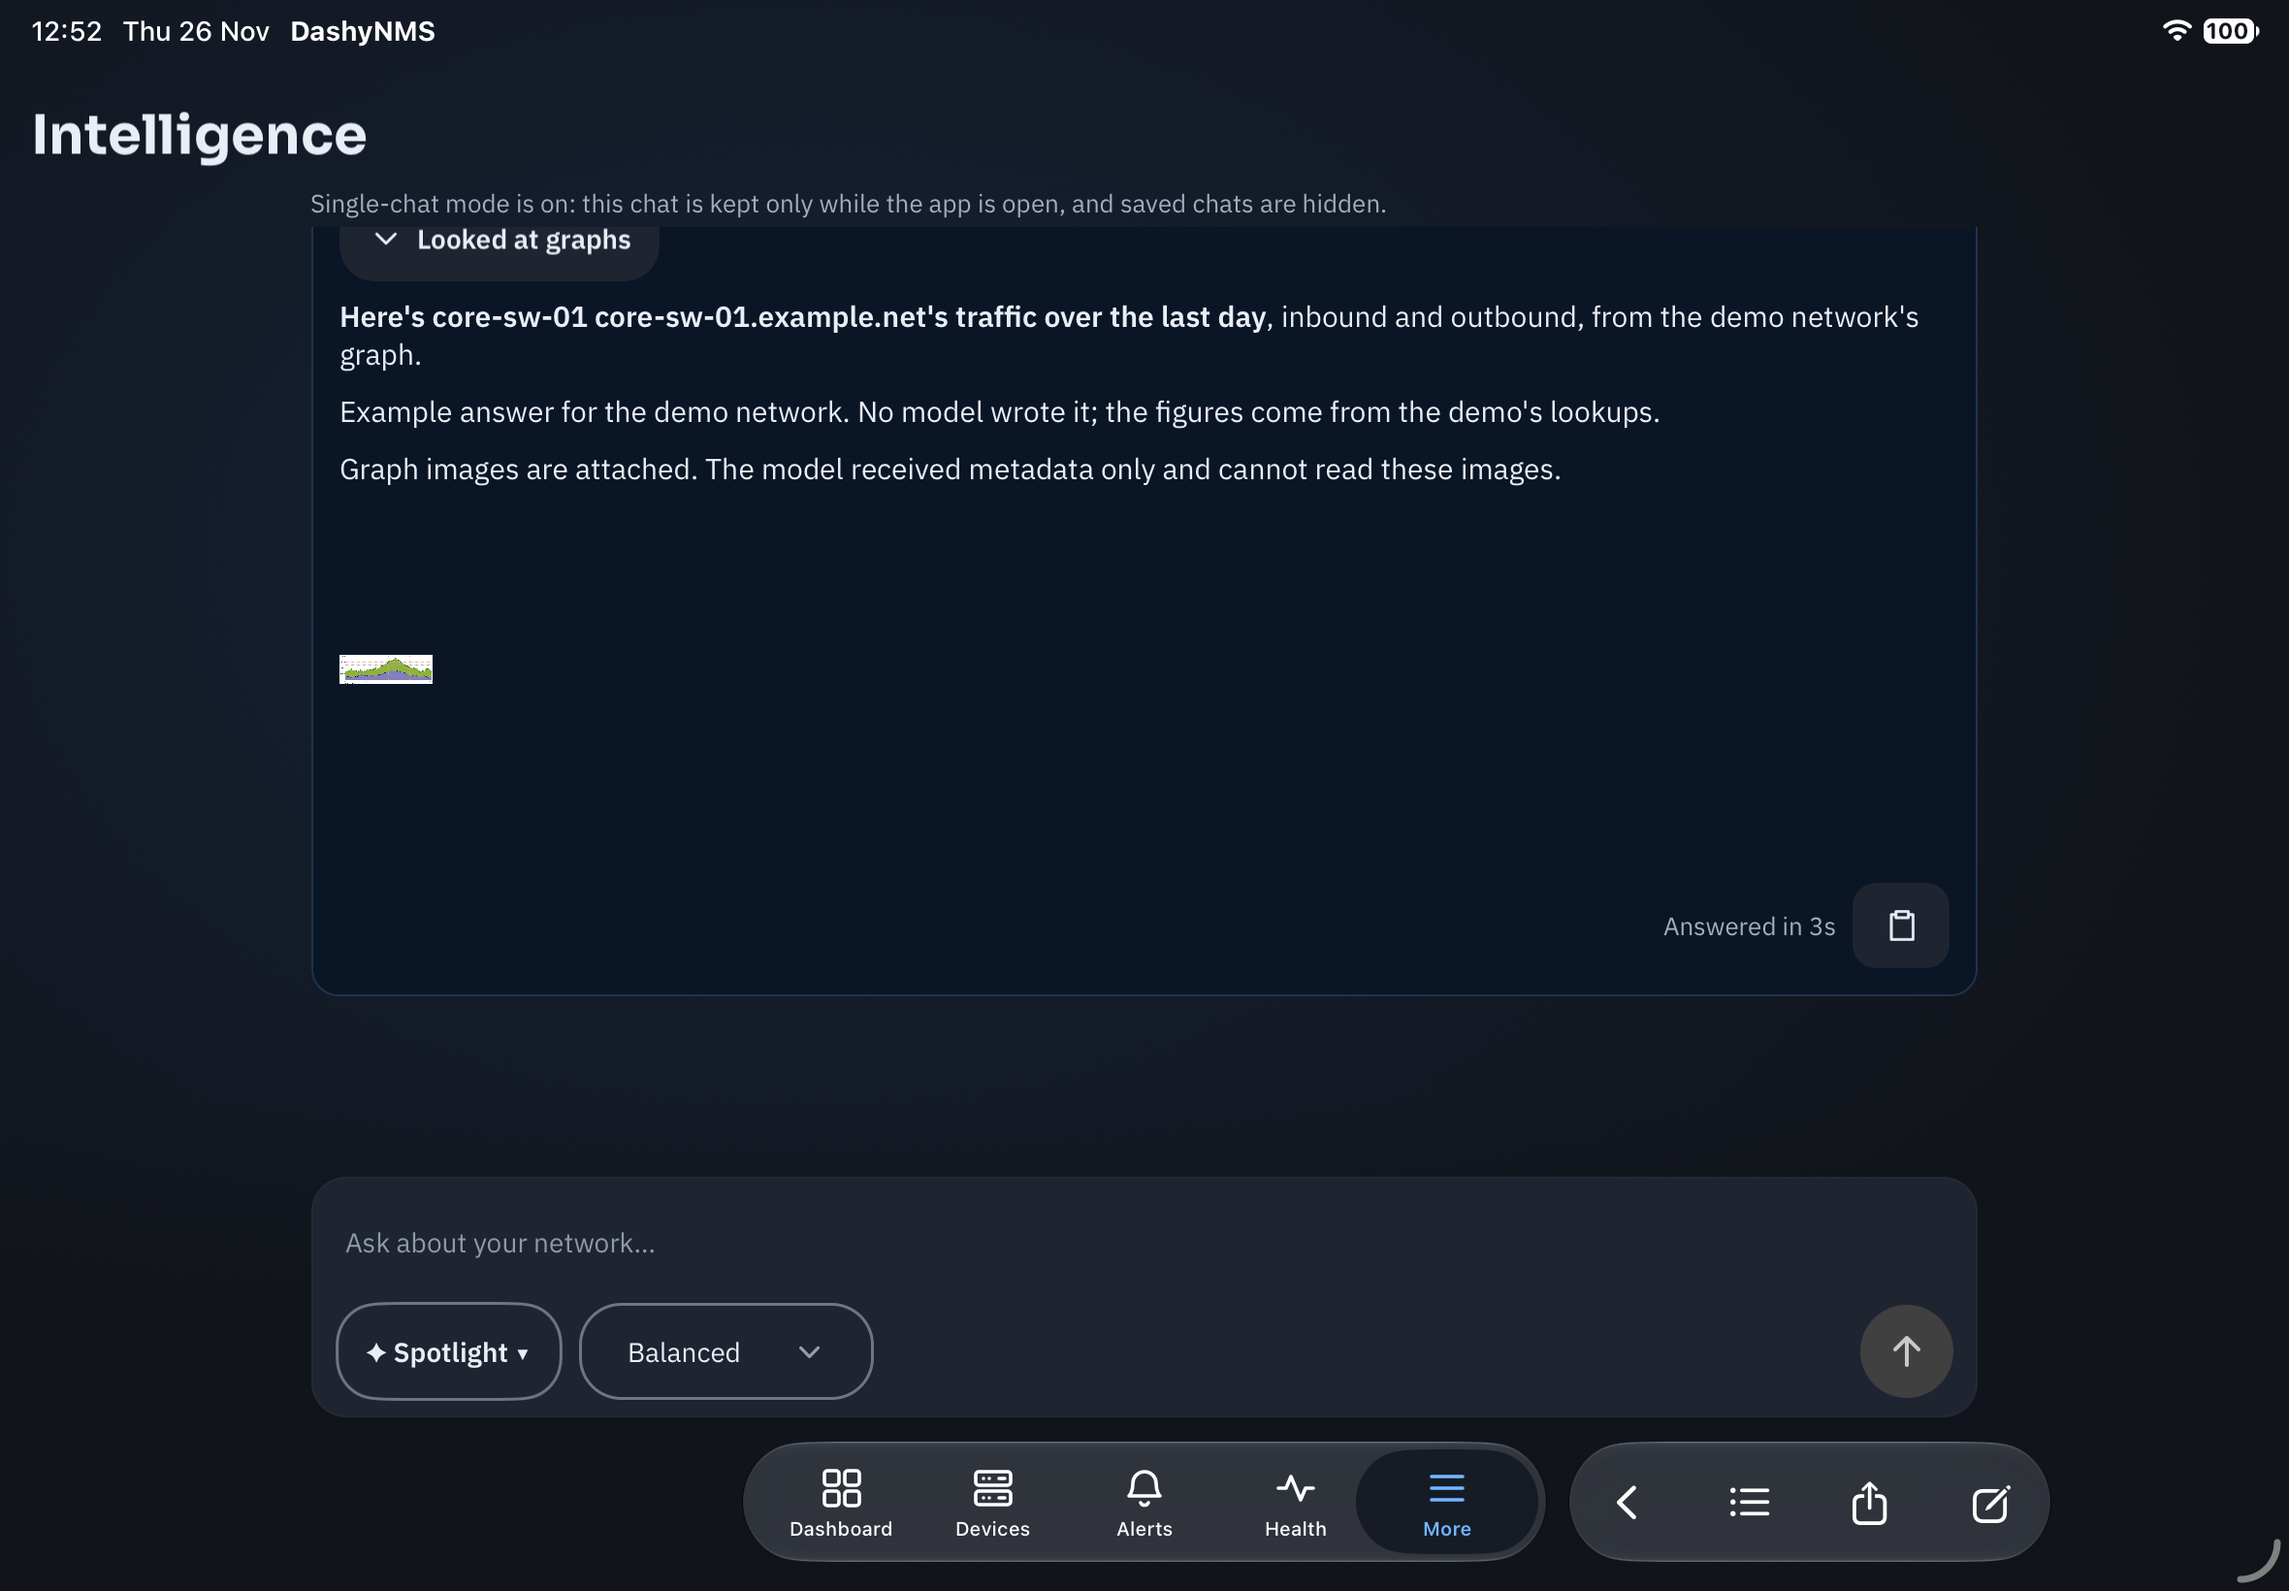
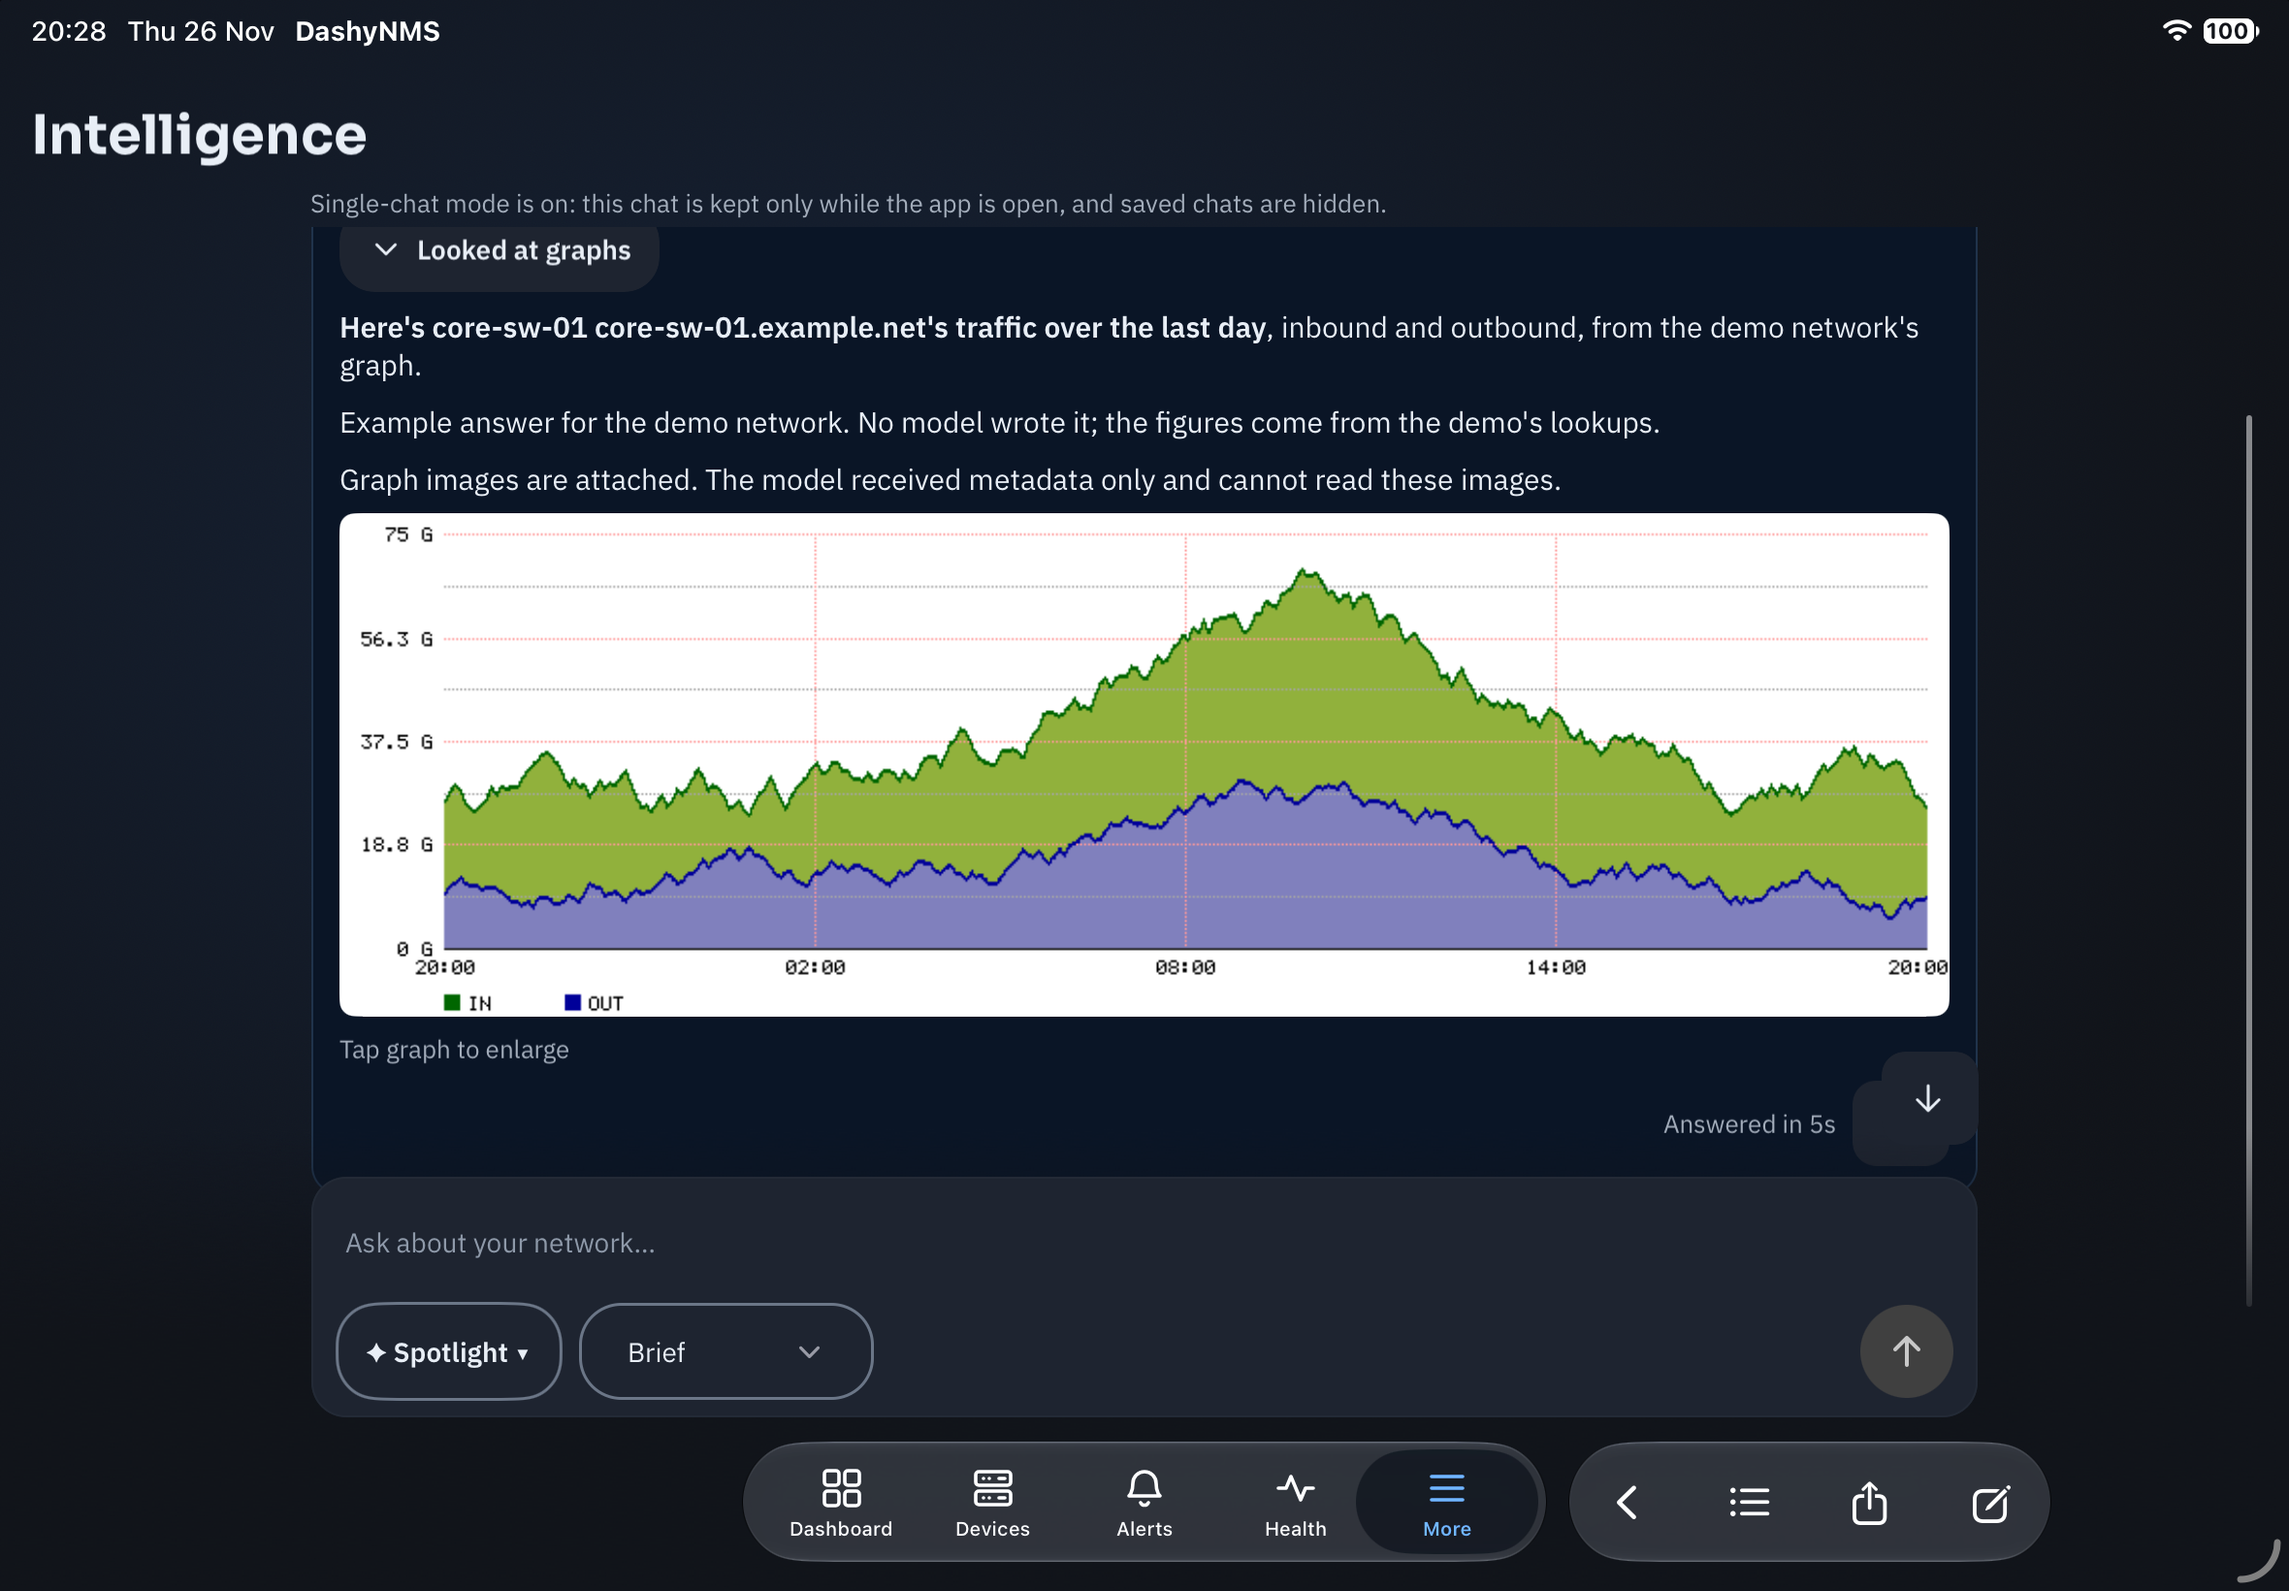
fix(intelligence): render attached graphs at full width (#721)
Closes #700

Intelligence graphs fill the answer card’s inner width and preserve the
source image’s aspect ratio as the window changes. Each graph still
opens the private preview when tapped.

## Simulator renders

<img alt="iPhone 18 Pro in dark mode with the full-width Demo Mode
traffic graph"
src="https://raw.githubusercontent.com/DashyNMS/mobile/7f766b627da7437e54f560aca1cb6927841c1ffa/docs/assets/screenshots/iphone-18-pro/30-intelligence-graph-answer-dark.png"
width="320">

<img alt="iPad A16 in landscape and dark mode with the full-width Demo
Mode traffic graph"
src="https://raw.githubusercontent.com/DashyNMS/mobile/7f766b627da7437e54f560aca1cb6927841c1ffa/docs/assets/screenshots/ipad-a16/26-ipad-landscape-intelligence-graph-dark.png"
width="760">

## Verification

- Ran the one-day core-sw-01 Demo Mode prompt on iPhone 18 Pro, iPhone
Duo folded and unfolded, and iPad (A16) in dark and light mode. The iPad
and Duo needed Brief detail because Balanced hit the prompt-length
limit.
- Checked rotation on iPad and folding on Duo with an attachment
visible. Scrolled to the graph with the keyboard open and verified two
graph answers in one Duo conversation. Opened and closed the enlarged
preview on iPhone and iPad.
- Confirmed a graph turn appeared in Duo’s saved chat list. The row did
not reopen during the simulator check. Shared tests cover restoring
saved image bytes.
- Ran the native Impeccable critique. Kept the visible enlargement cue
for narrow layouts.
[…]

diff --git a/src/DashyNMS.Mobile/Pages/IntelligencePage.cs b/src/DashyNMS.Mobile/Pages/IntelligencePage.cs
@@ -705,7 +705,7 @@ public sealed partial class IntelligencePage : ContentPage, IActivePage, IPrivat
         private bool _motionReduced = ReducedMotion.IsOn;
         private bool _activityExpanded;
         private readonly IntelligenceMarkdownView _answer = new();
-        private readonly FlexLayout _images = new() { Wrap = Microsoft.Maui.Layouts.FlexWrap.Wrap, IsVisible = false };
+        private readonly VerticalStackLayout _images = new() { Spacing = 8, IsVisible = false };
         private IReadOnlyList<DesktopNMS.Core.Intelligence.IntelligenceImage>? _shownImages;
         private readonly Label _state = new();
         private readonly Label _omitted = new() { Text = "Earlier turns were left out of this answer's context." };
@@ -979,10 +979,10 @@ public sealed partial class IntelligencePage : ContentPage, IActivePage, IPrivat
             {
                 var image = images[i];
                 var label = images.Count == 1 ? "Graph image" : $"Graph image {i + 1} of {images.Count}";
-                var button = new ImageButton
+                var button = new GraphAttachmentButton(image.Data)
                 {
-                    Source = ImageSource.FromStream(() => new MemoryStream(image.Data)), Aspect = Aspect.AspectFit,
-                    HeightRequest = 180, MinimumWidthRequest = 48, MaximumWidthRequest = 520, Margin = new Thickness(0, 0, 8, 8),
+                    Source = ImageSource.FromStream(() => new MemoryStream(image.Data)),
+                    Aspect = Aspect.AspectFit, Padding = 0, MinimumHeightRequest = 48,
                     BackgroundColor = Colors.Transparent, CornerRadius = 8,
                 };
                 SemanticProperties.SetDescription(button, label + ". Enlarge");
@@ -992,6 +992,12 @@ public sealed partial class IntelligencePage : ContentPage, IActivePage, IPrivat
                         await navigation.PushModalAsync(new ImagePreviewPage(_page._conversation, _turn, image, label));
                 };
                 _images.Children.Add(button);
+            }
+            if (images.Count > 0)
+            {
+                var hint = new Label { Text = images.Count == 1 ? "Tap graph to enlarge" : "Tap a graph to enlarge", Style = ResourceStyle("Caption") };
+                AutomationProperties.SetIsInAccessibleTree(hint, false);
+                _images.Children.Add(hint);
             }
             _images.IsVisible = images.Count > 0;
         }
@@ -1004,6 +1010,37 @@ public sealed partial class IntelligencePage : ContentPage, IActivePage, IPrivat
             _turn.Lookups.CollectionChanged -= OnLookupsChanged;
             foreach (var lookup in _watched) lookup.PropertyChanged -= OnChanged;
             _watched.Clear();
+        }
+    }
+
+    /// <summary>Measures against the answer card's inner width on every layout pass.</summary>
+    private sealed class GraphAttachmentButton(byte[] data) : ImageButton
+    {
+        private readonly double _aspectRatio = ReadAspectRatio(data);
+
+        protected override Size MeasureOverride(double widthConstraint, double heightConstraint)
+        {
+            if (!double.IsFinite(widthConstraint)) return base.MeasureOverride(widthConstraint, heightConstraint);
+            return new Size(widthConstraint, Math.Max(MinimumHeightRequest, widthConstraint / _aspectRatio));
+        }
+
+        /// <summary>Read the dimensions without decoding a second copy of the graph.</summary>
+        private static double ReadAspectRatio(byte[] data)
+        {
+#if IOS
+            using var bytes = Foundation.NSData.FromArray(data);
+            using var source = ImageIO.CGImageSource.FromData(bytes);
+            var properties = source?.GetProperties(0, null);
+            if (properties?.PixelWidth is > 0 and var width && properties.PixelHeight is > 0 and var height)
+                return properties.Orientation is >= CoreImage.CIImageOrientation.LeftTop and <= CoreImage.CIImageOrientation.LeftBottom
+                    ? (double)height / width : (double)width / height;
+#elif ANDROID
+            using var options = new Android.Graphics.BitmapFactory.Options { InJustDecodeBounds = true };
+            Android.Graphics.BitmapFactory.DecodeByteArray(data, 0, data.Length, options);
+            if (options.OutWidth > 0 && options.OutHeight > 0)
+                return (double)options.OutWidth / options.OutHeight;
+#endif
+            return 2;
         }
     }
 

diff --git a/docs/guide/how-to/intelligence.md b/docs/guide/how-to/intelligence.md
@@ -24,6 +24,8 @@ Intelligence isn't available on Android, or on older iPhones and iPads.
 2. Watch what's being looked up. Stop the answer at any time.
 3. Tap a device, alert or other item in the answer to open it.
 
+Graphs fill the width of the answer card. Tap a graph to open a larger preview.
+
 Be specific: name the device, site or port. The on-device model holds less at once than the ones on a computer, so it looks up fewer things for each question. Ask about one part of the network at a time, and start a **New chat** when you change subject.
 
 Answers can be wrong, and lookups can use data that's a few minutes old. Check LibreNMS before acting. When something couldn't be read, the answer says so.

diff --git a/docs/releases/2.0.0.md b/docs/releases/2.0.0.md
@@ -32,6 +32,7 @@ DashyNMS Mobile 2.0 brings Intelligence, alert groups for LibreNMS 26.10, offlin
 
 ## Fixed
 
+- **Intelligence graphs:** Attached graphs fill the answer card on iPhone and iPad (#700).
 - **Schedule maintenance.** On iOS, the form scrolls above **Schedule**, keeping Notes and the discard message clear of the button and navigation controls (#698).
 - **MAC addresses on LibreNMS 26.11.** A device's MAC table shows each address's VLAN number again, for newer servers and older ones.
 - **Sensors with no limits.** A custom sensor with no limits shows its reading without a colour on the dashboard, in the sensor picker and on the widget, rather than green for OK.
